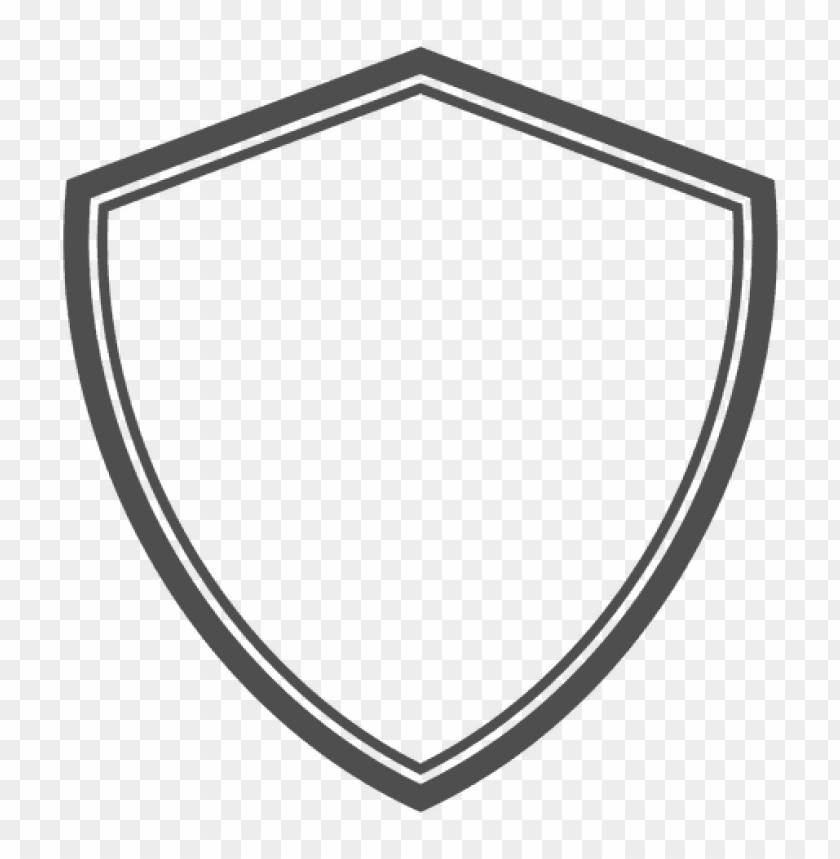
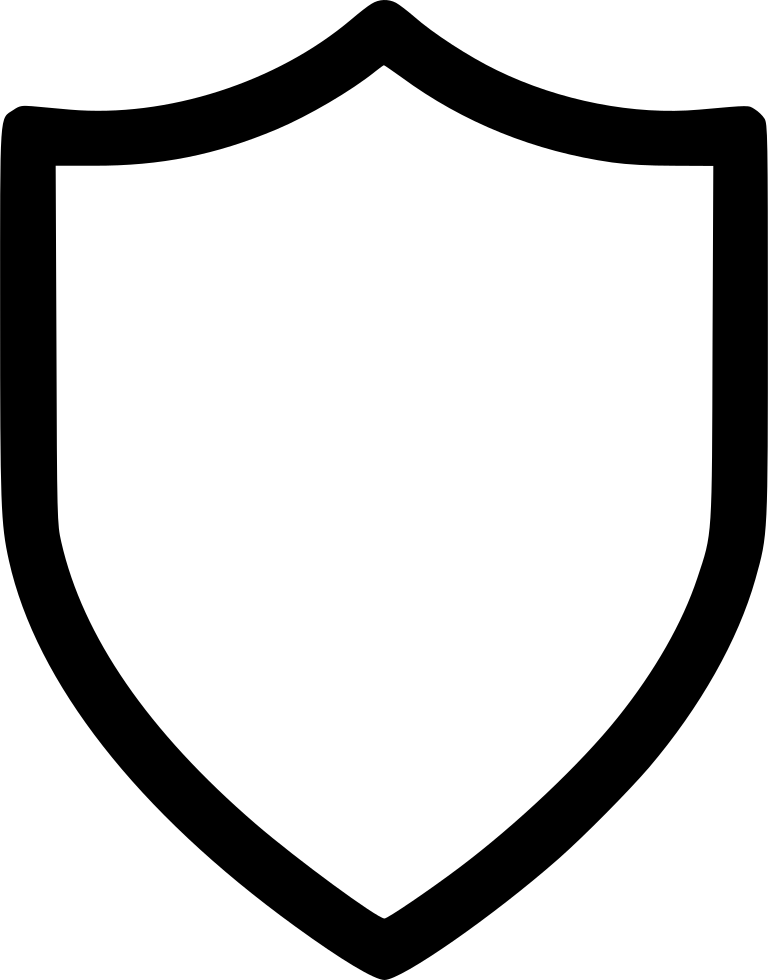
mudança de icones

diff --git a/Configurações.html b/Configurações.html
@@ -17,17 +17,17 @@
         <h1>Configurações</h1>
     </header>
     <main class="fonte">
-        <h3 class="fonteconfig"><a href="#"><img src='img/SIno.png' alt=Notificações class="imagem"></a>Notificações
+        <h3 class="fonteconfig"><a href="#"><img src='img/sino.png' alt=Notificações class="imagem"></a>Notificações
         </h3>
-        <h3 class="fonteconfig"><a href='#'><img src='img/Cadeado.png' alt=Privacidade class="imagem"></a>Privacidade
+        <h3 class="fonteconfig"><a href='#'><img src='img/cadeado.png' alt=Privacidade class="imagem"></a>Privacidade
         </h3>
-        <h3 class="fonteconfig"><a href='#'><img src='img/Escudo.png' alt=Segurança class="imagem"></a>Segurança
+        <h3 class="fonteconfig"><a href='#'><img src='img/escudo.png' alt=Segurança class="imagem"></a>Segurança
         </h3>
-        <h3 class="fonteconfig"><a href='#'><img src='img/Perfil.png' alt=Conta class="imagem"></a>Conta
+        <h3 class="fonteconfig"><a href='#'><img src='img/conta.png' alt=Conta class="imagem"></a>Conta
         </h3>
-        <h3 class="fonteconfig"><a href='#'><img src='img/SOS.png' alt=Ajuda class="imagem"></a>Ajuda
+        <h3 class="fonteconfig"><a href='#'><img src='img/question_mark.png' alt=Ajuda class="imagem"></a>Ajuda
         </h3>
-        <h3 class="fonteconfig"><a href='#'><img src='img/i.png' alt=Sobre class="imagem"></a>Sobre
+        <h3 class="fonteconfig"><a href='#'><img src='img/icone_informacao.png' alt=Sobre class="imagem"></a>Sobre
         </h3>
 
     </main>
